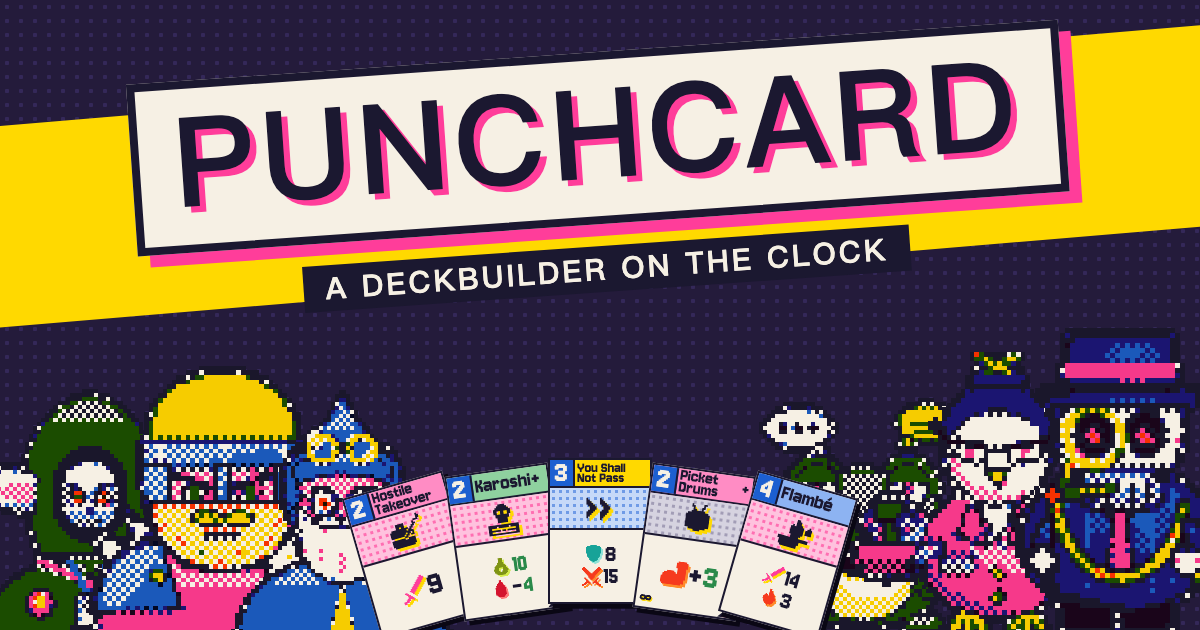
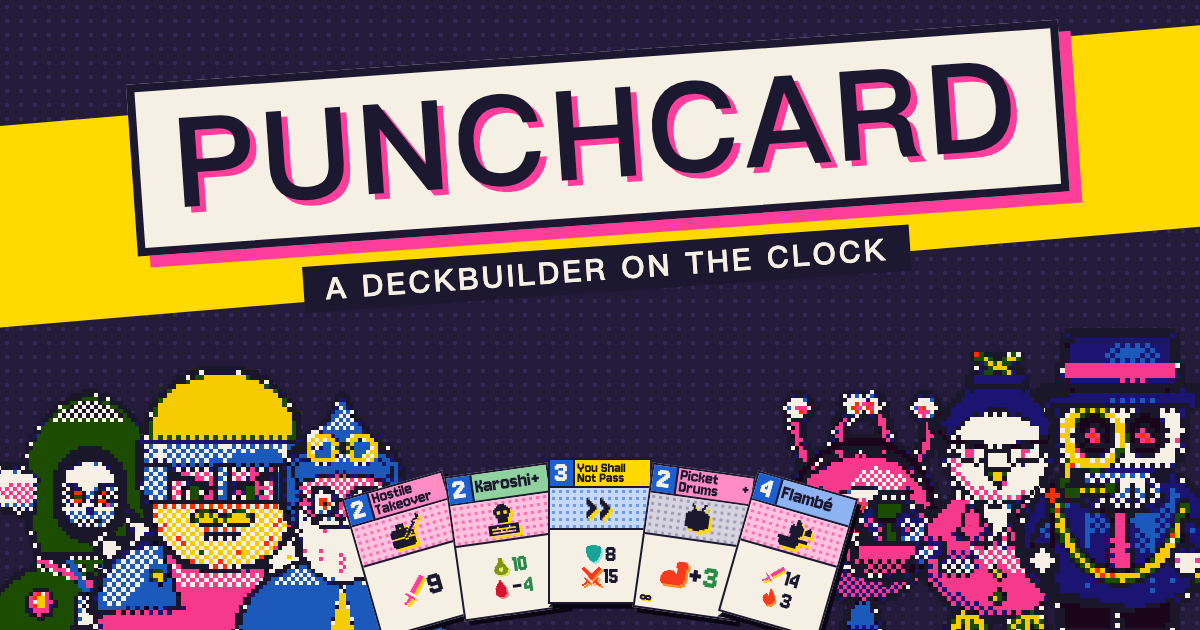
Link preview: Micromanager instead of the Toxic Coworker

Changed region(s): [[0.6167, 0.6032, 0.8017, 0.8143], [0.6783, 0.8746, 0.8017, 1.0]]

diff --git a/dev/og.html b/dev/og.html
@@ -34,7 +34,7 @@ document.getElementById('stage').innerHTML = [
   who('necromancer', -40, 260),
   who('warrior', 75, 295),
   who('mage', 215, 255),
-  who('toxicCoworker', 735, 255, true),
+  who('micromanager', 735, 255, true),
   who('hrBitch', 850, 295, true),
   who('slavesCeo', 960, 320, true),
 ].join('');
